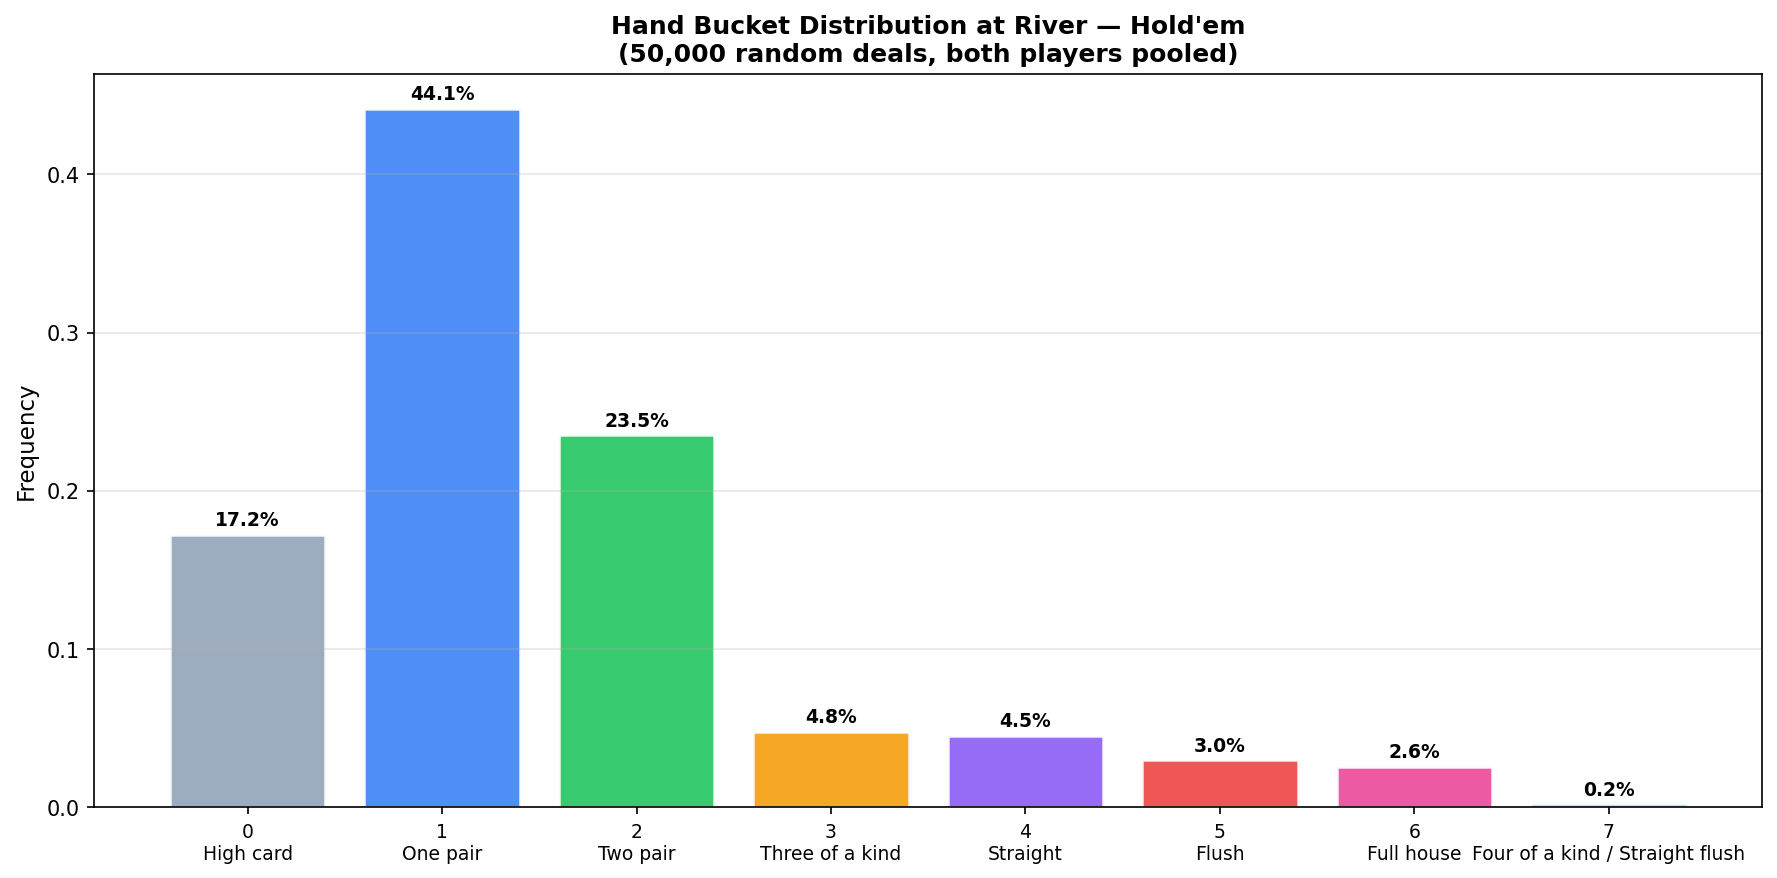
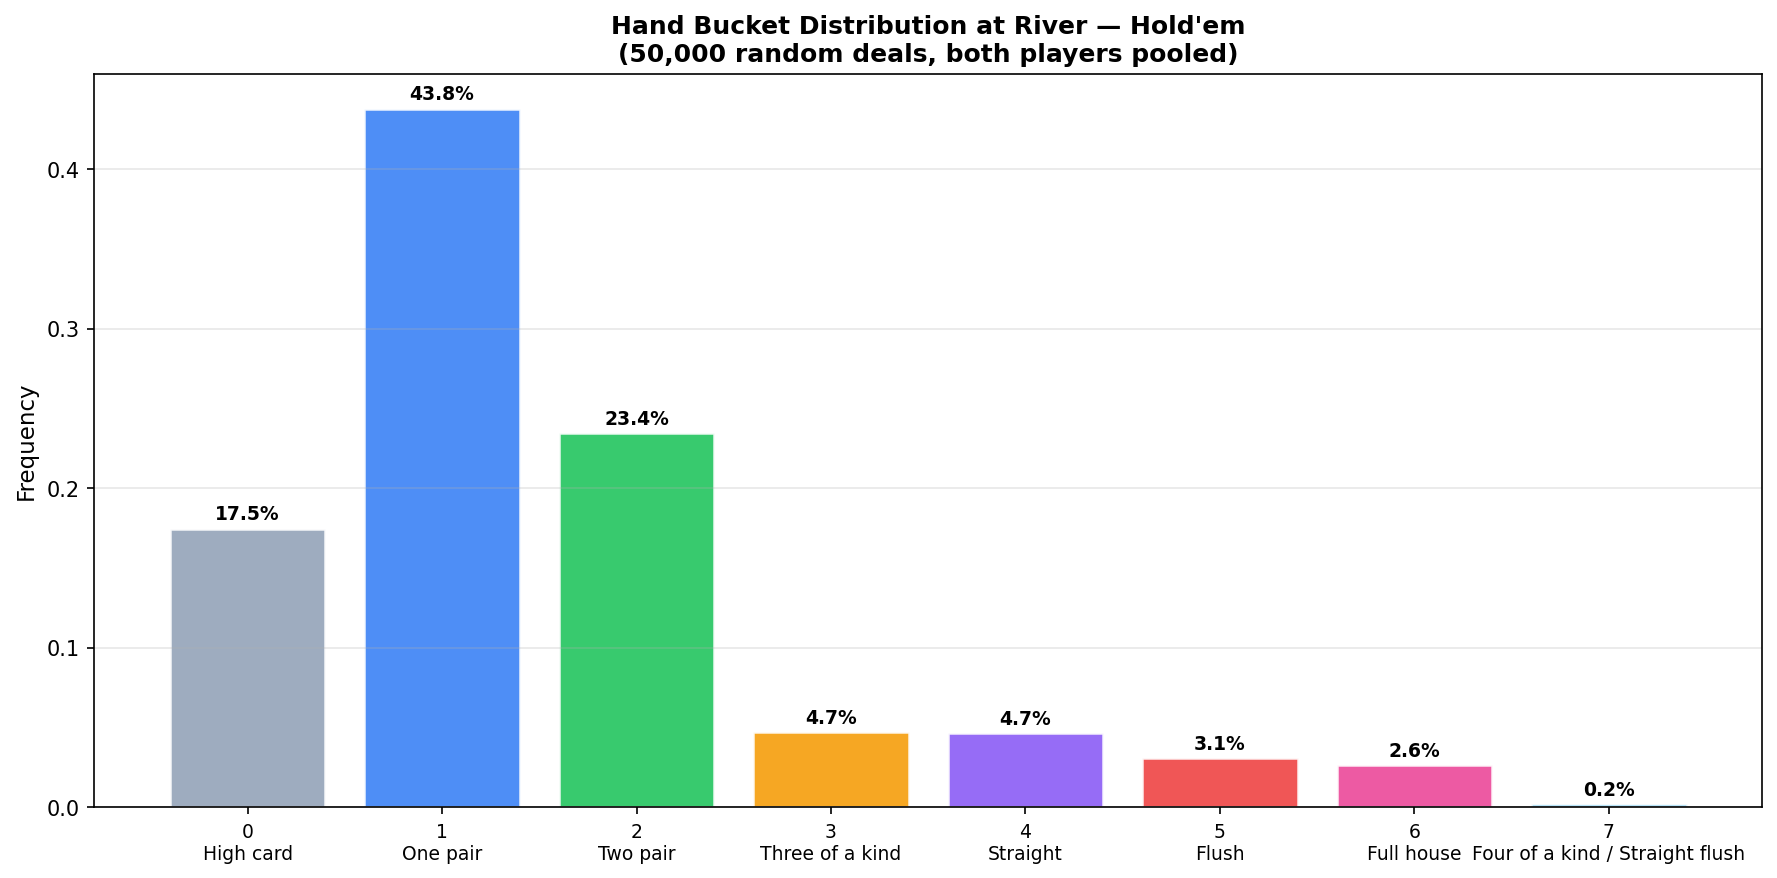
Fix holdem analysis: proper exploit tracking, 500-window EV, single training pass

diff --git a/holdem/analysis.py b/holdem/analysis.py
@@ -119,13 +119,16 @@ def exploitability_estimate(
 def train_and_track(
     iterations   : int = 10_000,
     sample_every : int = 500,
-) -> tuple[list[int], list[float], list[float]]:
+) -> tuple[list[int], list[float], list[float], "HoldemCFRTrainer"]:
     """
     Train MCCFR and record EV + exploitability estimates at intervals.
 
     Returns
     -------
-    (iteration_points, exploit_estimates, ev_estimates)
+    (iteration_points, exploit_estimates, ev_estimates, trainer)
+
+    The trainer is returned so the caller can extract the learned strategy
+    for plotting without running a second expensive training pass.
     """
     game    = HoldemPoker()
     trainer = HoldemCFRTrainer()
@@ -145,11 +148,11 @@ def train_and_track(
 
         strategy = trainer.get_strategy()
 
-        # Smooth EV over last 100 samples to reduce MC noise
-        window  = min(100, len(ev_history))
+        # Smooth EV over last 500 samples to reduce MC noise
+        window  = min(500, len(ev_history))
         ev_est  = sum(ev_history[-window:]) / window
 
-        exploit = exploitability_estimate(game, strategy, n_samples=50)
+        exploit = exploitability_estimate(game, strategy, n_samples=200)
 
         iteration_points.append(completed)
         exploit_values.append(exploit)
@@ -164,7 +167,7 @@ def train_and_track(
     print(f"Final EV estimate:      {ev_values[-1]:.4f}")
     print(f"Infoset nodes:          {len(trainer.nodes):,}")
     print(f"Target:                 ≤ {HOLDEM_EXPLOITABILITY_TARGET}")
-    return iteration_points, exploit_values, ev_values
+    return iteration_points, exploit_values, ev_values, trainer
 
 
 # ─────────────────────────────────────────────────────────────────────────────
@@ -209,7 +212,7 @@ def plot_convergence(
     ax1.xaxis.set_major_formatter(ticker.FuncFormatter(lambda x, _: f"{int(x):,}"))
 
     ax2.plot(iteration_points, ev_values,
-             color="#16a34a", linewidth=2, label="P1 EV estimate (100-iter avg)")
+             color="#16a34a", linewidth=2, label="P1 EV estimate (500-iter avg)")
     ax2.axhline(y=0, color="#dc2626", linestyle="--", linewidth=1.2,
                 label="EV = 0")
     ax2.set_xlabel("Iterations", fontsize=11)
@@ -358,49 +361,14 @@ def plot_bucket_distribution(
 # ─────────────────────────────────────────────────────────────────────────────
 
 if __name__ == "__main__":
-    import time
+    # ── Single training pass: track convergence and collect strategy ──────────
+    iters, exploit, ev, trainer = train_and_track(
+        iterations=10_000, sample_every=1_000
+    )
+    strategy = trainer.get_strategy()
 
-    game    = HoldemPoker()
-    trainer = HoldemCFRTrainer()
-
-    iterations   = 10_000
-    sample_every = 1_000   # only record EV snapshots, no BR calls mid-training
-
-    print(f"Training Hold'em MCCFR for {iterations:,} iterations...")
-
-    iteration_points = []
-    ev_values        = []
-
-    start     = time.time()
-    completed = 0
-    while completed < iterations:
-        chunk      = min(sample_every, iterations - completed)
-        ev_history = trainer.train(iterations=chunk)
-        completed += chunk
-
-        window  = min(100, len(ev_history))
-        ev_est  = sum(ev_history[-window:]) / window
-        iteration_points.append(completed)
-        ev_values.append(ev_est)
-        print(f"  iter {completed:>7,}  |  EV ≈ {ev_est:.4f}  |  nodes: {len(trainer.nodes):,}")
-
-    elapsed = time.time() - start
-    print(f"\nTraining done in {elapsed:.1f}s")
-
-    # ── Compute exploitability ONCE at the end (50 samples) ──────────────────
-    print("Computing final exploitability estimate (50 samples)...")
-    strategy     = trainer.get_strategy()
-    final_exploit = exploitability_estimate(game, strategy, n_samples=50)
-    exploit_values = [None] * (len(iteration_points) - 1) + [final_exploit]
-
-    print(f"Final exploit estimate: {final_exploit:.4f}")
-    print(f"Final EV estimate:      {ev_values[-1]:.4f}")
-    print(f"Infoset nodes:          {len(trainer.nodes):,}")
-
-    # ── Plots ─────────────────────────────────────────────────────────────────
-    # For convergence plot, use EV only (exploit is only available at the end)
-    plot_convergence(iteration_points, [final_exploit] * len(iteration_points),
-                     ev_values)
+    # ── Generate all plots from the same trained model ────────────────────────
+    plot_convergence(iters, exploit, ev)
     plot_strategy_by_street(strategy)
     plot_bucket_distribution()
 
